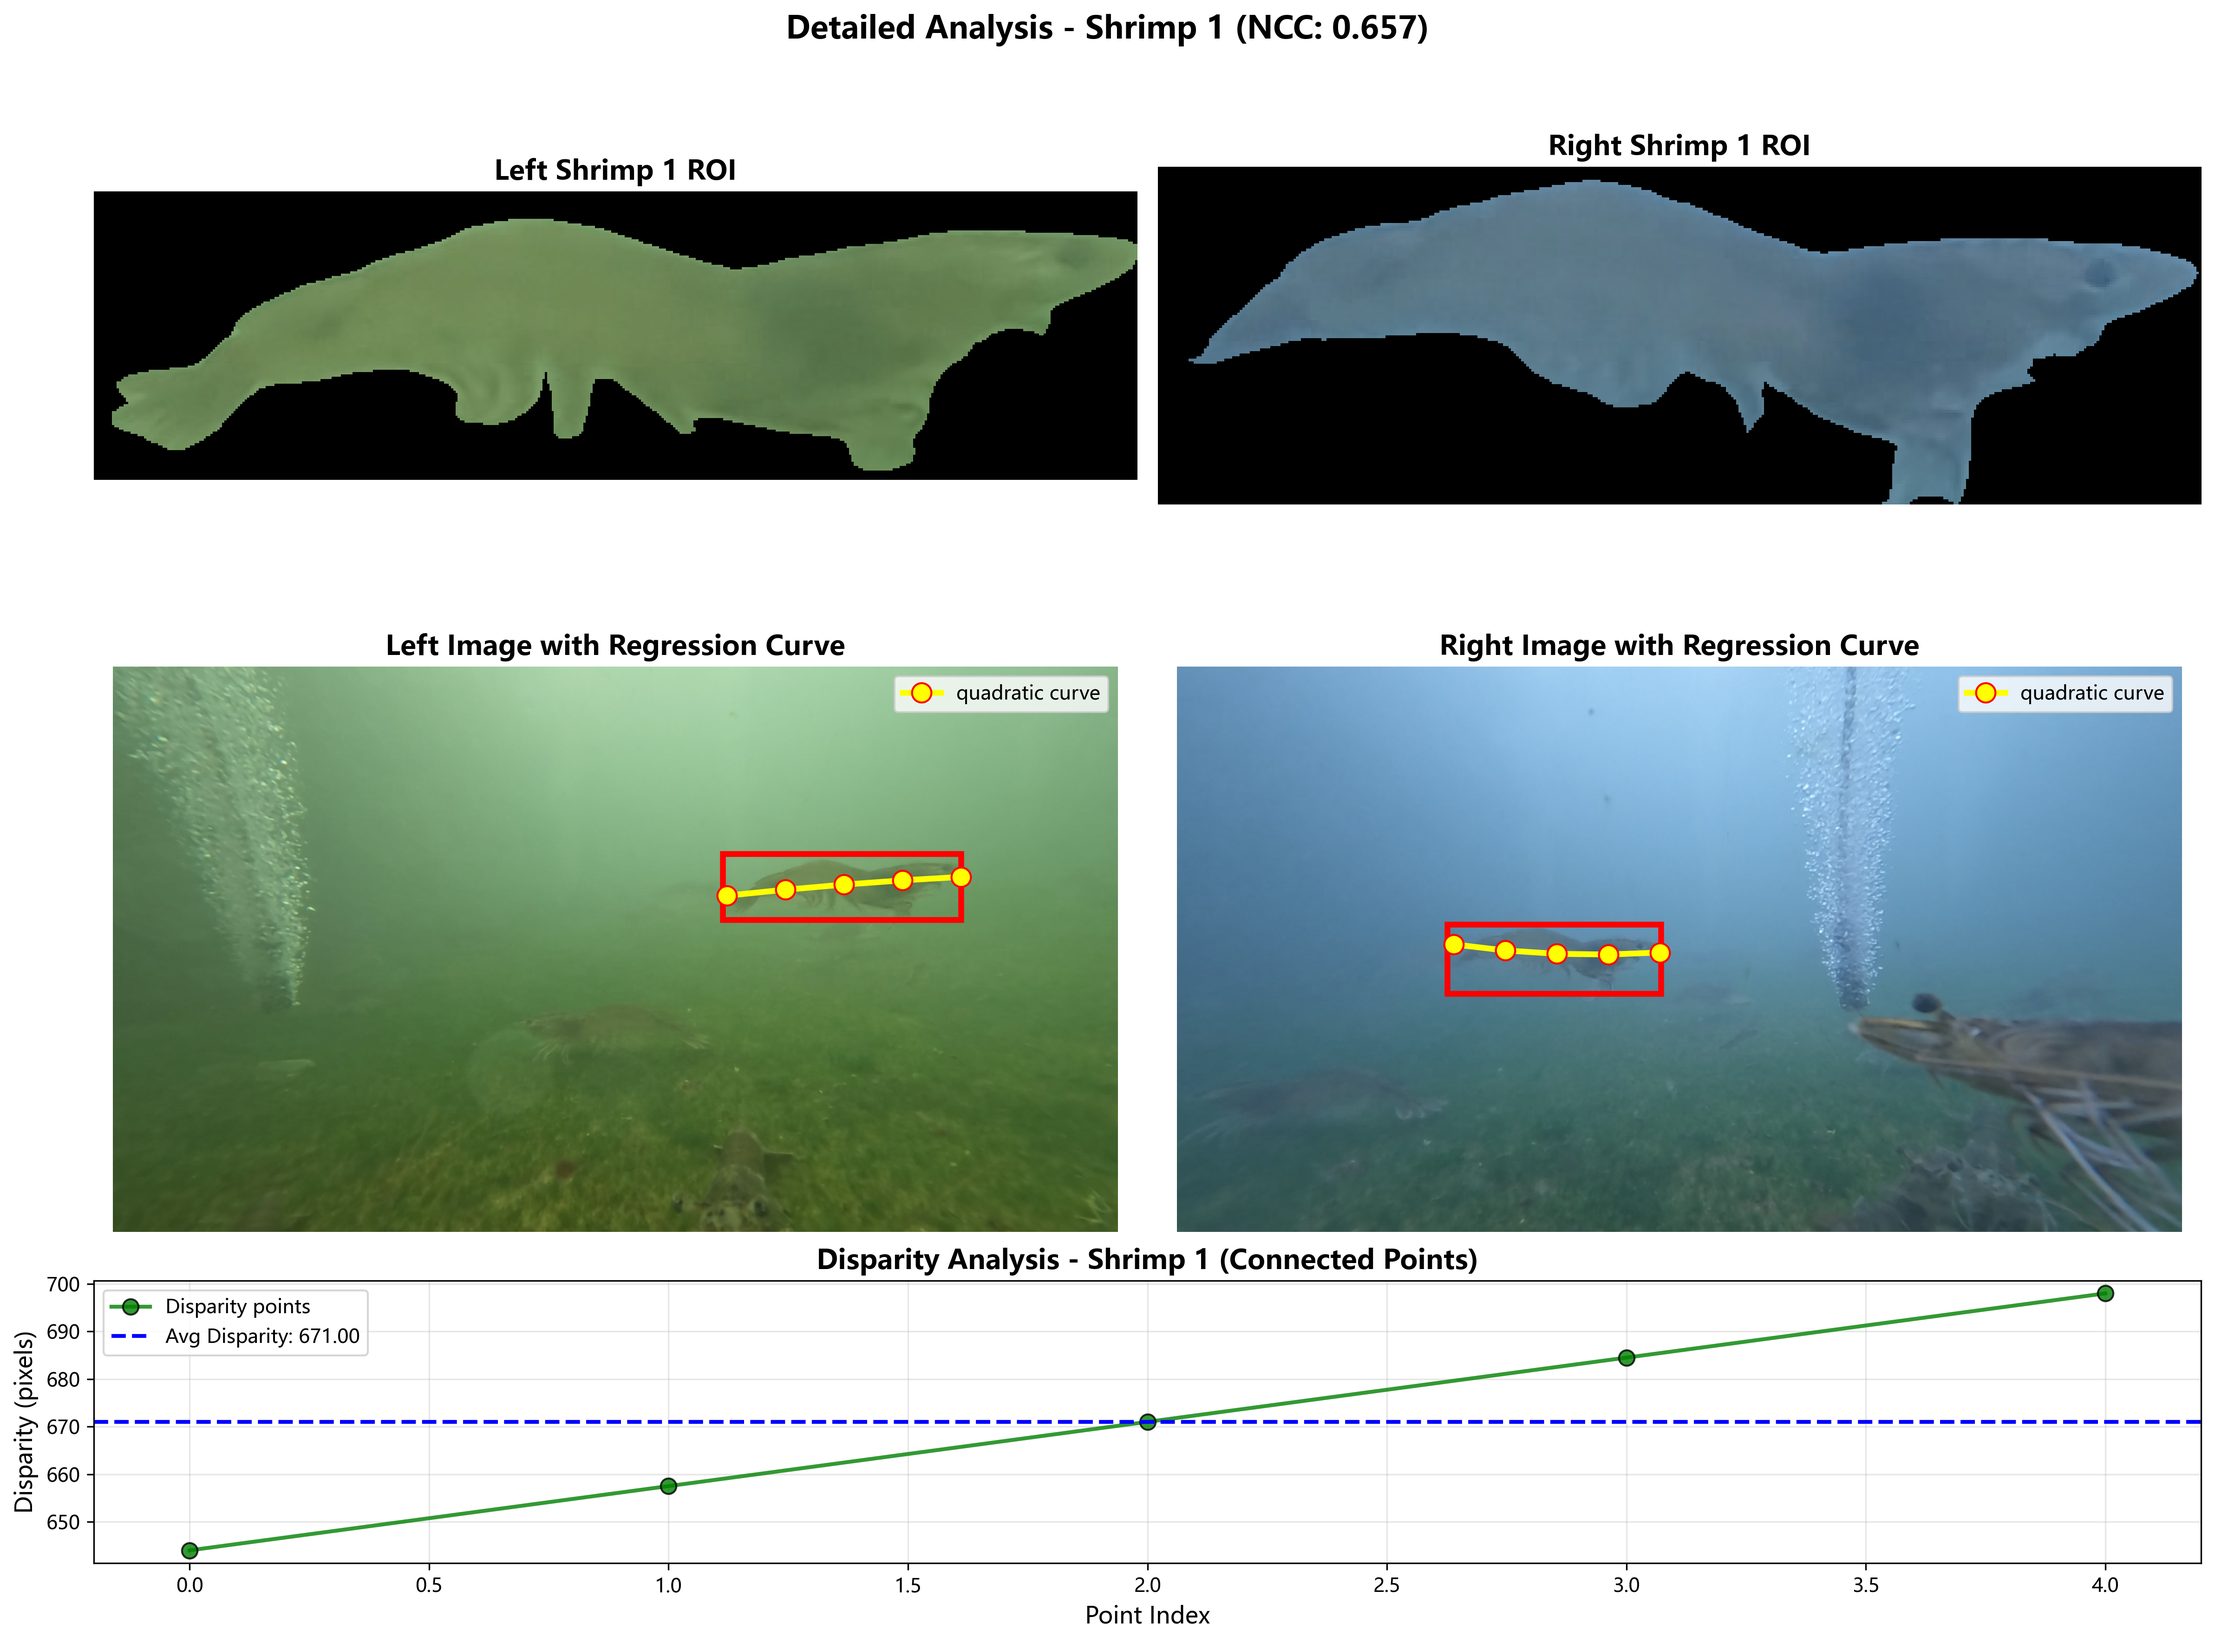
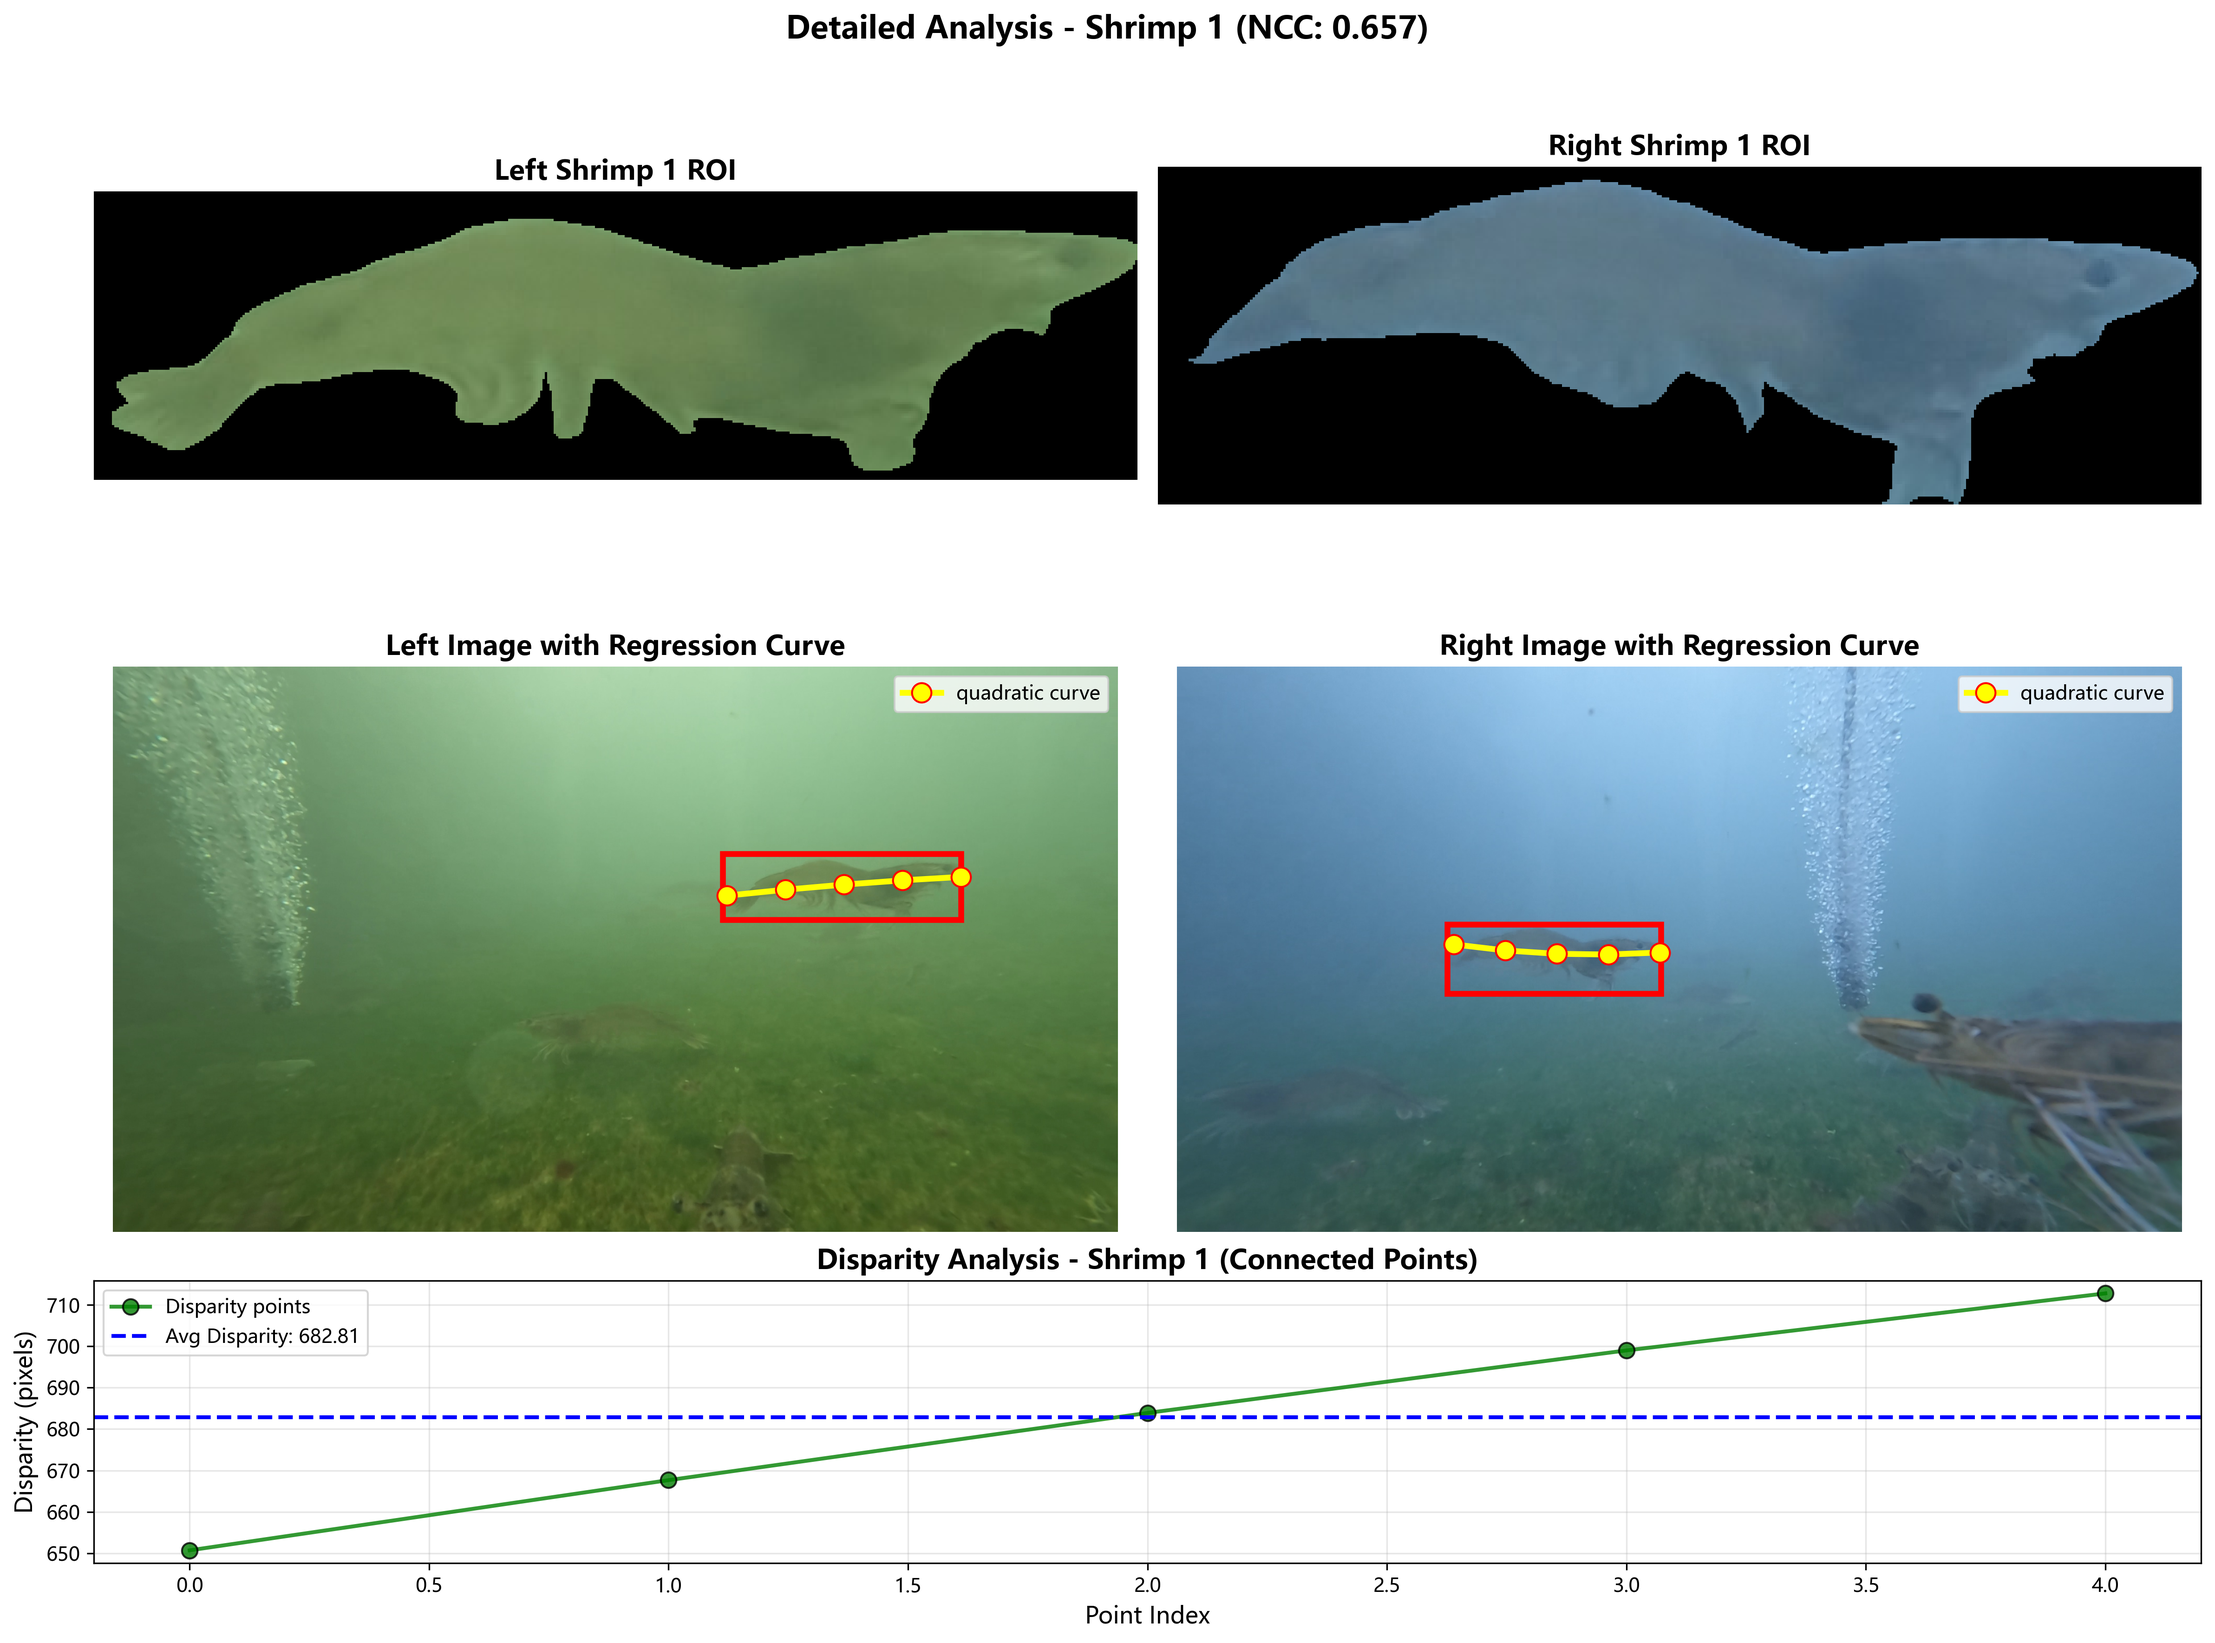
update disparity/length

Changed region(s): [[0.0312, 0.8086, 0.9998, 0.9019], [0.1562, 0.9019, 0.3124, 0.933], [0.8436, 0.7775, 0.8748, 0.8086]]

diff --git a/compute_shrimp_lengths.py b/compute_shrimp_lengths.py
@@ -25,13 +25,14 @@ def compute_lengths_for_shrimp(entry: Dict[str, Any], baseline_cm: float = 25.0)
     where
     - c = |a - b|, a = depth(disp2), b = depth(disp1)
     - length = r * baseline / max(disp1, disp2)
-      r = |x[i+1] - x[i]| in pixels (left image x-axis distance)
+      r = sqrt(|x[i+1] - x[i]|^2 + |y[i+1] - y[i]|^2) in pixels (left image Euclidean distance)
     """
     disparities: List[float] = entry.get("disparities", [])
     left_pts = entry.get("left_sampled_points", {})
     left_x: List[float] = left_pts.get("x", [])
+    left_y: List[float] = left_pts.get("y", [])
 
-    n = min(len(disparities), len(left_x))
+    n = min(len(disparities), len(left_x), len(left_y))
     if n < 2:
         return {
             "shrimp_id": entry.get("shrimp_id"),
@@ -50,8 +51,8 @@ def compute_lengths_for_shrimp(entry: Dict[str, Any], baseline_cm: float = 25.0)
         b = depth_from_disparity(disp1, baseline_cm=baseline_cm)
         c = abs(a - b)
 
-        # horizontal distance along x (cm)
-        r_px = abs(left_x[i + 1] - left_x[i])
+        # Euclidean distance along x and y (cm)
+        r_px = math.hypot(abs(left_x[i + 1] - left_x[i]), abs(left_y[i + 1] - left_y[i]))
         max_disp = max(disp1, disp2)
         if max_disp <= 0:
             raise ValueError("Encountered non-positive disparity when computing length.")

diff --git a/shrimp_disparity_analysis.py b/shrimp_disparity_analysis.py
@@ -548,8 +548,8 @@ class ShrimpDisparityAnalyzer:
         right_x = right_x[:min_points]
         right_y = right_y[:min_points]
         
-        # 計算水平視差 (假設是校正過的立體圖像對)
-        disparities = left_x - right_x
+        # 計算視差 (假設是校正過的立體圖像對)
+        disparities = np.sqrt((left_x - right_x)**2 + (left_y - right_y)**2)
         
         # 檢查y座標差異（僅作為資訊顯示，不影響有效性判斷）
         y_diff = np.abs(left_y - right_y)
